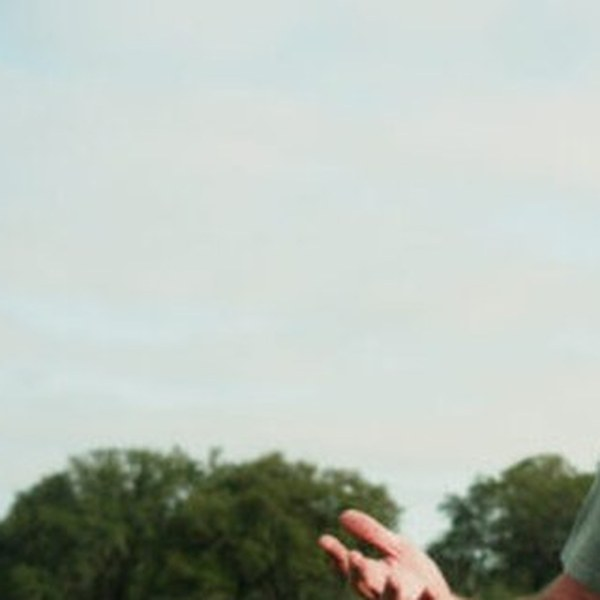
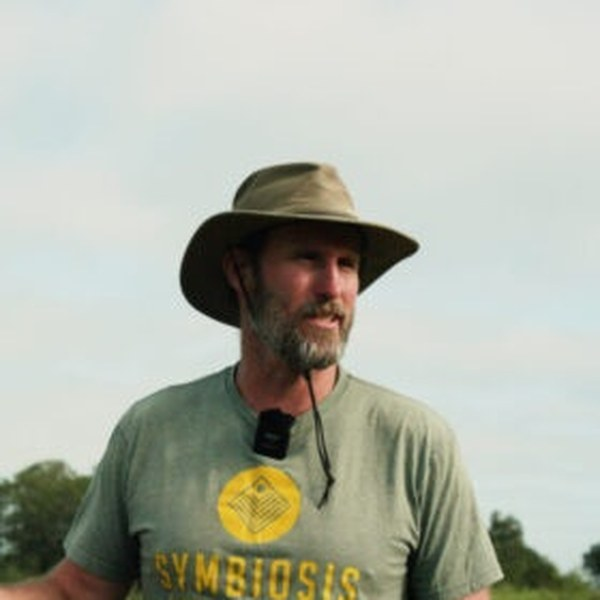
feat: team photos face-cropped + Symbiosis TX fix
- Downloaded and face-centered all team/partner photos (600x600 square crops)
  via Pillow — consistent face sizing across all 21 photos on the page
- Adam Russell: org corrected to Symbiosis TX, bio updated to reflect
  his role as Symbiosis TX founder and master site planner for Abundancia
- Removed standalone Symbiosis TX org card (Adam Russell represents them)
- Added Gayle Borst (Regenerative Design Architect) with photo
- Added Jean-Marc La Flamme (Geoship, crowdfunding strategy) with photo
- New partner photos added: Kacee Jackson, Nico Scegiel, Tony Cho,
  Eric Amyot, Adelle York, Jared Gossett, Mary Mandel, adam-russell
- Updated Amanda Williams to new Drive photo (amanda-williams.jpg)

diff --git a/src/app/team/page.tsx b/src/app/team/page.tsx
@@ -220,14 +220,6 @@ const PARTNERS = [
     role: 'Development advisor on MUD bond financing, builder attraction, county permitting, and large-scale project structuring.',
   },
   {
-    name: 'Symbiosis TX',
-    photo: undefined,
-    org: 'Symbiosis TX',
-    focus: 'Regenerative Land Planning',
-    detail: 'Central Texas regenerative design and water-resilient landscape firm specializing in watershed science, ecology, and regenerative land management. Experience on thousands of acres from homesteads to large conservation ranches, with end-to-end execution: design, earthworks, planting, water systems, and construction.',
-    role: 'Master site planning — land use, conservation corridors, habitat enhancement, and LPHCP compliance.',
-  },
-  {
     name: 'Jared Gossett',
     photo: '/images/team/jared-gossett.png',
     org: 'Independent',
@@ -246,10 +238,10 @@ const PARTNERS = [
   {
     name: 'Adam Russell',
     photo: '/images/team/adam-russell.jpg',
-    org: 'Stewardship, Inc.',
+    org: 'Symbiosis TX',
     focus: 'Regenerative Land Design',
-    detail: "Austin's hempcrete architect with dual degrees in Architecture (UT Austin) and Biology (U of Illinois). President/CEO of Stewardship, Inc. and Chairman of Design.Build.Live. Adam integrates ecological systems thinking into every built environment, making him a natural fit for Abundancia's hempcrete construction vision.",
-    role: 'Hempcrete architecture and regenerative land design — ensuring built structures enhance rather than diminish the ecosystem.',
+    detail: 'Founder and lead designer at Symbiosis TX — Central Texas\'s premier regenerative land planning firm. Specializes in watershed science, keyline earthworks, drone mapping, and full design-to-build execution across thousands of acres from homesteads to large conservation ranches. Adam leads Abundancia\'s master site planning, conservation corridors, habitat enhancement, and LPHCP compliance.',
+    role: 'Master site planning — land use, regenerative systems, conservation corridors, and ecological land design.',
   },
   {
     name: 'Mary Mandel',
